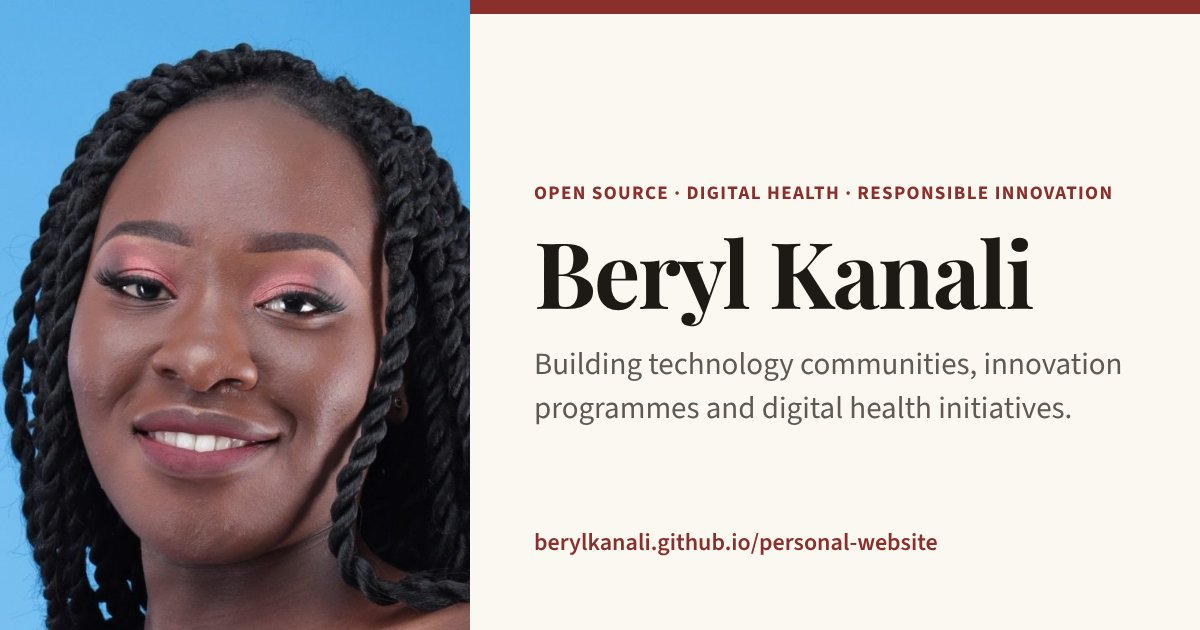
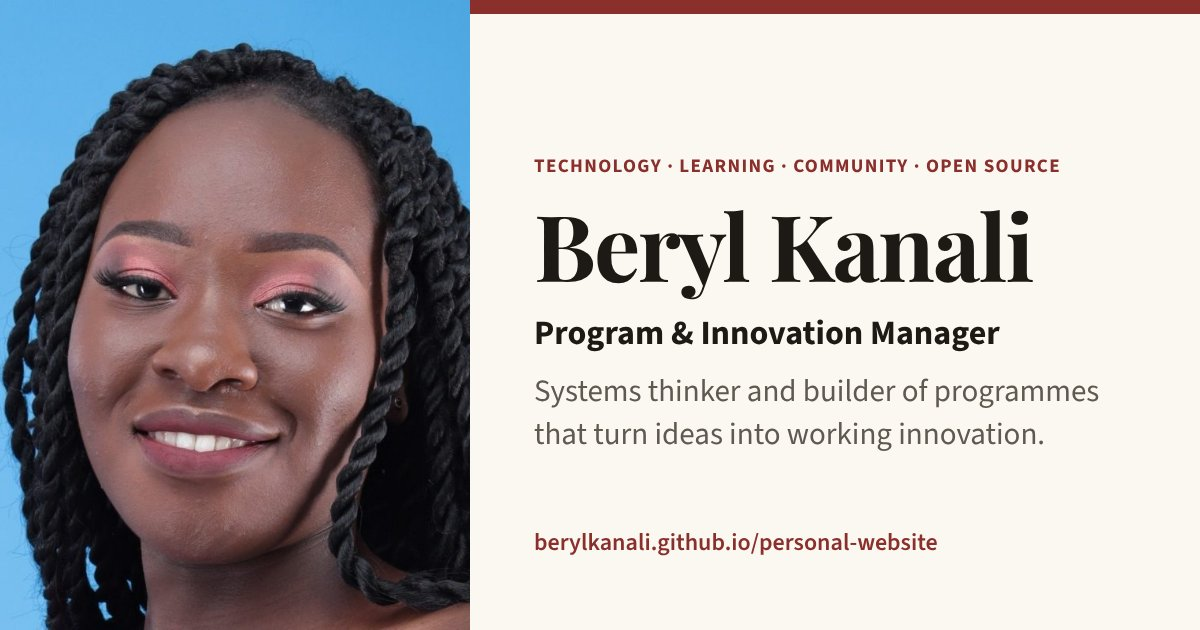
Align site positioning with new LinkedIn headline
Lead with "Program & Innovation Manager · Systems thinker & builder" and
the Technology · Learning · Community · Open Source focus, using the new
personal statement in the homepage hero and About page.

- Replace independent-consultant framing with roles plus advisory and
  project work: new "Role" option on Services, updated Contact copy and
  "Good fits", homepage CTA now speaks to hiring and projects.
- Innovation programme design now listed first on Home and Services.
- Stat updated to "5+ years in open source" to match the statement.
- Page titles, descriptions, preview alt text, footer and link-preview
  card updated to the new title.

Claude-Session: https://claude.ai/code/session_011xEgmuE4S4L5QixbqaLqwP

Changed region(s): [[0.4317, 0.2413, 0.925, 0.7238]]

diff --git a/services.html b/services.html
@@ -4,19 +4,19 @@
   <meta charset="UTF-8">
   <meta name="viewport" content="width=device-width, initial-scale=1.0">
   <title>Services – Beryl Kanali</title>
-  <meta name="description" content="Consulting services from Beryl Kanali: open-source community strategy, innovation programme design, digital health programme delivery, and training and facilitation.">
+  <meta name="description" content="Ways to work with Beryl Kanali: programme and innovation roles, advisory and project work in innovation programme design, open-source community strategy, digital health programme delivery, and training.">
   <meta name="author" content="Beryl Kanali">
 
   <!-- Link previews (LinkedIn, WhatsApp, Slack, email) -->
   <meta property="og:type" content="website">
   <meta property="og:title" content="Services – Beryl Kanali">
-  <meta property="og:description" content="Consulting services from Beryl Kanali: open-source community strategy, innovation programme design, digital health programme delivery, and training and facilitation.">
+  <meta property="og:description" content="Ways to work with Beryl Kanali: programme and innovation roles, advisory and project work in innovation programme design, open-source community strategy, digital health programme delivery, and training.">
   <meta property="og:url" content="https://berylkanali.github.io/personal-website/services.html">
   <meta property="og:site_name" content="Beryl Kanali">
   <meta property="og:image" content="https://berylkanali.github.io/personal-website/images/og-card.jpg">
   <meta property="og:image:width" content="1200">
   <meta property="og:image:height" content="630">
-  <meta property="og:image:alt" content="Beryl Kanali – open source, digital health and responsible innovation">
+  <meta property="og:image:alt" content="Beryl Kanali – Program &amp; Innovation Manager">
   <meta name="twitter:card" content="summary_large_image">
   <link rel="canonical" href="https://berylkanali.github.io/personal-website/services.html">
 
@@ -46,34 +46,17 @@
   <main id="main">
     <section class="hero hero-page">
       <h1>Services</h1>
-      <p class="tagline">Practical support for organisations building technology communities, innovation programmes and digital health initiatives.</p>
+      <p class="tagline">Programme and innovation roles, advisory and project work, for organisations building innovation programmes, technology communities and learning initiatives.</p>
     </section>
     <section class="section">
-      <h2>What I offer</h2>
+      <h2>Where I add value</h2>
       <p>
         I work with organisations that need someone who understands both the
-        technology and the people around it. Every engagement draws on
-        work I do every day, not theory.
+        technology and the people around it, whether in a programme or innovation
+        role on your team or on a defined project. Everything here draws on work
+        I do every day, not theory.
       </p>
       <div class="service-list">
-
-            <article class="service" id="community">
-              <div class="service-head">
-                <h3>Open-source community strategy</h3>
-                <p class="service-who"><strong>For:</strong> open-source projects, foundations and digital public goods</p>
-              </div>
-              <div class="service-body">
-                <p class="service-label">What I can do</p>
-                <ul>
-                  <li>Community health assessments: who participates, where people drop off, what blocks contribution</li>
-                  <li>Contributor onboarding pathways and mentorship programmes (e.g. Google Summer of Code, Outreachy)</li>
-                  <li>Engagement strategies with metrics you can track and report on</li>
-                  <li>Governance and Code of Conduct review</li>
-                  <li>Community communications: newsletters, updates and reporting to leadership</li>
-                </ul>
-                <p class="service-proof"><strong>Track record:</strong> OpenMRS community coordination, Astropy community management, Bioconductor contribution through Outreachy. <a href="work.html">See work</a></p>
-              </div>
-            </article>
 
             <article class="service" id="innovation">
               <div class="service-head">
@@ -90,6 +73,24 @@
                   <li>Pitch preparation, demo days and judging frameworks</li>
                 </ul>
                 <p class="service-proof"><strong>Track record:</strong> KamiLimu ICT &amp; Innovation track, the KamiLimu Responsible Innovation Hub and peer-reviewed research on the model. <a href="research.html">See research</a></p>
+              </div>
+            </article>
+
+            <article class="service" id="community">
+              <div class="service-head">
+                <h3>Open-source community strategy</h3>
+                <p class="service-who"><strong>For:</strong> open-source projects, foundations and digital public goods</p>
+              </div>
+              <div class="service-body">
+                <p class="service-label">What I can do</p>
+                <ul>
+                  <li>Community health assessments: who participates, where people drop off, what blocks contribution</li>
+                  <li>Contributor onboarding pathways and mentorship programmes (e.g. Google Summer of Code, Outreachy)</li>
+                  <li>Engagement strategies with metrics you can track and report on</li>
+                  <li>Governance and Code of Conduct review</li>
+                  <li>Community communications: newsletters, updates and reporting to leadership</li>
+                </ul>
+                <p class="service-proof"><strong>Track record:</strong> OpenMRS community coordination, Astropy community management, Bioconductor contribution through Outreachy. <a href="work.html">See work</a></p>
               </div>
             </article>
 
@@ -152,7 +153,8 @@
 
     <section class="section">
       <h2>Ways to work together</h2>
-      <div class="focus-grid three">
+      <div class="focus-grid">
+        <div class="focus-card"><h3>Role</h3><p>A full-time or long-term programme or innovation management role on your team.</p></div>
         <div class="focus-card"><h3>Project</h3><p>A defined piece of work with a clear scope, timeline and outcome.</p></div>
         <div class="focus-card"><h3>Advisory</h3><p>Ongoing support for your team, on an agreed number of days or hours each month.</p></div>
         <div class="focus-card"><h3>Workshop</h3><p>A single session or short series for your team, cohort or community.</p></div>
@@ -171,7 +173,7 @@
   </main>
 
   <footer>
-    <p>&copy; <span class="year">2026</span> Beryl Kanali &middot; Open source, digital health &amp; responsible innovation</p>
+    <p>&copy; <span class="year">2026</span> Beryl Kanali &middot; Technology &middot; Learning &middot; Community &middot; Open Source</p>
     <p class="footer-links">
       <a href="mailto:kanaliberyl@gmail.com">Email</a>
       <a href="https://linkedin.com/in/berylkanali" target="_blank" rel="noopener noreferrer">LinkedIn</a>

diff --git a/index.html b/index.html
@@ -3,20 +3,20 @@
 <head>
   <meta charset="UTF-8">
   <meta name="viewport" content="width=device-width, initial-scale=1.0">
-  <title>Beryl Kanali – Open Source, Digital Health & Innovation Consultant</title>
-  <meta name="description" content="Beryl Kanali is an independent consultant helping health-tech organisations, open-source projects and innovation programmes build communities, design programmes and deliver technology initiatives.">
+  <title>Beryl Kanali – Program & Innovation Manager</title>
+  <meta name="description" content="Beryl Kanali is a program and innovation manager who builds programmes at the intersection of technology, learning and community: curricula, fellowships, incubation pathways and open-source communities.">
   <meta name="author" content="Beryl Kanali">
 
   <!-- Link previews (LinkedIn, WhatsApp, Slack, email) -->
   <meta property="og:type" content="website">
-  <meta property="og:title" content="Beryl Kanali – Open Source, Digital Health & Innovation Consultant">
-  <meta property="og:description" content="Beryl Kanali is an independent consultant helping health-tech organisations, open-source projects and innovation programmes build communities, design programmes and deliver technology initiatives.">
+  <meta property="og:title" content="Beryl Kanali – Program & Innovation Manager">
+  <meta property="og:description" content="Beryl Kanali is a program and innovation manager who builds programmes at the intersection of technology, learning and community: curricula, fellowships, incubation pathways and open-source communities.">
   <meta property="og:url" content="https://berylkanali.github.io/personal-website/">
   <meta property="og:site_name" content="Beryl Kanali">
   <meta property="og:image" content="https://berylkanali.github.io/personal-website/images/og-card.jpg">
   <meta property="og:image:width" content="1200">
   <meta property="og:image:height" content="630">
-  <meta property="og:image:alt" content="Beryl Kanali – open source, digital health and responsible innovation">
+  <meta property="og:image:alt" content="Beryl Kanali – Program &amp; Innovation Manager">
   <meta name="twitter:card" content="summary_large_image">
   <link rel="canonical" href="https://berylkanali.github.io/personal-website/">
 
@@ -46,15 +46,17 @@
   <main id="main">
     <section class="hero hero-split">
       <div class="hero-text">
-        <p class="hero-intro">Open source &middot; Digital health &middot; Responsible innovation</p>
+        <p class="hero-intro">Technology &middot; Learning &middot; Community &middot; Open Source</p>
         <h1>Beryl Kanali</h1>
+        <p class="hero-role"><span>Program &amp; Innovation Manager</span> &middot; <span>Systems thinker &amp; builder</span></p>
         <p class="tagline">
-          I help organisations build technology communities that last, design
-          innovation programmes that move ideas into real use, and deliver
-          multi-stakeholder technology initiatives.
+          I build and manage programmes at the intersection of technology, learning
+          and community, designing the structures that turn ideas into working
+          innovation: curricula, fellowships, incubation pathways and the
+          processes that keep them running.
         </p>
         <div class="hero-actions">
-          <a href="services.html" class="btn">How I can help</a>
+          <a href="services.html" class="btn">Ways to work together</a>
           <a href="contact.html" class="btn btn-secondary">Start a conversation</a>
         </div>
         <p class="experience-with">
@@ -75,21 +77,21 @@
         <li><strong>500+</strong><span>contributors and partners in the global OpenMRS community I support</span></li>
         <li><strong>40+</strong><span>student innovation teams mentored from problem to pitch</span></li>
         <li><strong>86</strong><span>students took part in the 2026 KamiLimu Buildathon</span></li>
-        <li><strong>5</strong><span>years building open-source communities, since my Outreachy internship with Bioconductor</span></li>
+        <li><strong>5+</strong><span>years in open source, helping people collaborate across borders</span></li>
       </ul>
     </section>
 
     <section class="section">
-      <p class="eyebrow">Services</p>
-      <h2>How I can help</h2>
+      <p class="eyebrow">What I do</p>
+      <h2>Programmes I build and run</h2>
       <div class="focus-grid">
-        <a class="focus-card card-link" href="services.html#community">
-          <h3>Open-source community strategy</h3>
-          <p>Contributor pathways, engagement strategy, governance and community health for open-source and digital public goods projects.</p>
-        </a>
         <a class="focus-card card-link" href="services.html#innovation">
           <h3>Innovation programme design</h3>
           <p>Curricula, cohorts and incubation models that take teams from problem validation to solutions people actually use.</p>
+        </a>
+        <a class="focus-card card-link" href="services.html#community">
+          <h3>Open-source community strategy</h3>
+          <p>Contributor pathways, engagement strategy, governance and community health for open-source and digital public goods projects.</p>
         </a>
         <a class="focus-card card-link" href="services.html#delivery">
           <h3>Digital health programme delivery</h3>
@@ -100,7 +102,7 @@
           <p>Workshops on open-source contribution, responsible computing and science communication.</p>
         </a>
       </div>
-      <a href="services.html" class="project-link">See all services and how I work</a>
+      <a href="services.html" class="project-link">See how we can work together</a>
     </section>
 
     <section class="section">
@@ -142,8 +144,8 @@
     </section>
 
     <section class="section contact-cta">
-      <h2>Have a community, programme or innovation challenge?</h2>
-      <p>Tell me what you are working on and where you are stuck. I will reply with whether and how I can help.</p>
+      <h2>Hiring for a programme role, or building something new?</h2>
+      <p>Whether you have a programme or innovation role to fill or a project that needs a builder, tell me what you are working on. I will reply with whether and how I can help.</p>
       <div class="hero-actions">
         <a href="mailto:kanaliberyl@gmail.com?subject=Enquiry%20from%20your%20website" class="btn">Email me</a>
         <a href="contact.html" class="btn btn-secondary">Contact details</a>
@@ -153,7 +155,7 @@
   </main>
 
   <footer>
-    <p>&copy; <span class="year">2026</span> Beryl Kanali &middot; Open source, digital health &amp; responsible innovation</p>
+    <p>&copy; <span class="year">2026</span> Beryl Kanali &middot; Technology &middot; Learning &middot; Community &middot; Open Source</p>
     <p class="footer-links">
       <a href="mailto:kanaliberyl@gmail.com">Email</a>
       <a href="https://linkedin.com/in/berylkanali" target="_blank" rel="noopener noreferrer">LinkedIn</a>

diff --git a/contact.html b/contact.html
@@ -4,19 +4,19 @@
   <meta charset="UTF-8">
   <meta name="viewport" content="width=device-width, initial-scale=1.0">
   <title>Contact – Beryl Kanali</title>
-  <meta name="description" content="Get in touch with Beryl Kanali about consulting, collaboration, speaking or research in open source, digital health and responsible innovation.">
+  <meta name="description" content="Get in touch with Beryl Kanali about programme and innovation roles, advisory and project work, speaking or research collaborations.">
   <meta name="author" content="Beryl Kanali">
 
   <!-- Link previews (LinkedIn, WhatsApp, Slack, email) -->
   <meta property="og:type" content="website">
   <meta property="og:title" content="Contact – Beryl Kanali">
-  <meta property="og:description" content="Get in touch with Beryl Kanali about consulting, collaboration, speaking or research in open source, digital health and responsible innovation.">
+  <meta property="og:description" content="Get in touch with Beryl Kanali about programme and innovation roles, advisory and project work, speaking or research collaborations.">
   <meta property="og:url" content="https://berylkanali.github.io/personal-website/contact.html">
   <meta property="og:site_name" content="Beryl Kanali">
   <meta property="og:image" content="https://berylkanali.github.io/personal-website/images/og-card.jpg">
   <meta property="og:image:width" content="1200">
   <meta property="og:image:height" content="630">
-  <meta property="og:image:alt" content="Beryl Kanali – open source, digital health and responsible innovation">
+  <meta property="og:image:alt" content="Beryl Kanali – Program &amp; Innovation Manager">
   <meta name="twitter:card" content="summary_large_image">
   <link rel="canonical" href="https://berylkanali.github.io/personal-website/contact.html">
 
@@ -46,14 +46,15 @@
   <main id="main">
     <section class="hero hero-page">
       <h1>Let's work together</h1>
-      <p class="tagline">Consulting, collaboration, speaking and research conversations.</p>
+      <p class="tagline">Roles, collaborations, speaking and research conversations.</p>
     </section>
     <section class="section contact-layout">
       <div>
         <h2>Get in touch</h2>
         <p>
-          I am open to consulting engagements with health-technology organisations,
-          open-source projects, universities, incubators and funders, as well as
+          I am open to programme and innovation management roles, and to advisory
+          and project work with open-source projects, health-technology
+          organisations, universities, incubators and funders. I also welcome
           speaking, facilitation and research collaborations.
         </p>
         <p>Email is the fastest way to reach me.</p>
@@ -81,6 +82,7 @@
     <section class="section">
       <h2>Good fits</h2>
       <ul class="skills-list">
+        <li>Programme &amp; innovation management roles</li>
         <li>Open-source community strategy</li>
         <li>Contributor &amp; mentorship programmes</li>
         <li>Innovation programme design</li>
@@ -93,7 +95,7 @@
   </main>
 
   <footer>
-    <p>&copy; <span class="year">2026</span> Beryl Kanali &middot; Open source, digital health &amp; responsible innovation</p>
+    <p>&copy; <span class="year">2026</span> Beryl Kanali &middot; Technology &middot; Learning &middot; Community &middot; Open Source</p>
     <p class="footer-links">
       <a href="mailto:kanaliberyl@gmail.com">Email</a>
       <a href="https://linkedin.com/in/berylkanali" target="_blank" rel="noopener noreferrer">LinkedIn</a>

diff --git a/about.html b/about.html
@@ -4,19 +4,19 @@
   <meta charset="UTF-8">
   <meta name="viewport" content="width=device-width, initial-scale=1.0">
   <title>About – Beryl Kanali</title>
-  <meta name="description" content="About Beryl Kanali: an independent consultant working across open source, digital health and responsible innovation, with a background in mathematics, statistics and technology management.">
+  <meta name="description" content="About Beryl Kanali: a program and innovation manager and systems thinker working across technology, learning, community and open source, with a background in mathematics, statistics and technology management.">
   <meta name="author" content="Beryl Kanali">
 
   <!-- Link previews (LinkedIn, WhatsApp, Slack, email) -->
   <meta property="og:type" content="website">
   <meta property="og:title" content="About – Beryl Kanali">
-  <meta property="og:description" content="About Beryl Kanali: an independent consultant working across open source, digital health and responsible innovation, with a background in mathematics, statistics and technology management.">
+  <meta property="og:description" content="About Beryl Kanali: a program and innovation manager and systems thinker working across technology, learning, community and open source, with a background in mathematics, statistics and technology management.">
   <meta property="og:url" content="https://berylkanali.github.io/personal-website/about.html">
   <meta property="og:site_name" content="Beryl Kanali">
   <meta property="og:image" content="https://berylkanali.github.io/personal-website/images/og-card.jpg">
   <meta property="og:image:width" content="1200">
   <meta property="og:image:height" content="630">
-  <meta property="og:image:alt" content="Beryl Kanali – open source, digital health and responsible innovation">
+  <meta property="og:image:alt" content="Beryl Kanali – Program &amp; Innovation Manager">
   <meta name="twitter:card" content="summary_large_image">
   <link rel="canonical" href="https://berylkanali.github.io/personal-website/about.html">
 
@@ -46,7 +46,7 @@
   <main id="main">
     <section class="hero hero-page">
       <h1>About</h1>
-      <p class="tagline">Community builder, programme designer and researcher, working where technology meets people.</p>
+      <p class="tagline">Program &amp; innovation manager and systems thinker, building programmes where technology, learning and community meet.</p>
     </section>
     <section class="section about-intro">
       <div>
@@ -64,7 +64,8 @@
           out-of-classroom learning works.
         </p>
         <p>
-          I now offer this experience as an independent consultant. My training
+          I think in systems: I design the structures that turn ideas into working
+          innovation, and the processes that keep them running. My training
           spans mathematics, statistics and engineering and technology management,
           so I can work as easily with technical teams as with the people who fund
           and run programmes.
@@ -104,7 +105,7 @@
   </main>
 
   <footer>
-    <p>&copy; <span class="year">2026</span> Beryl Kanali &middot; Open source, digital health &amp; responsible innovation</p>
+    <p>&copy; <span class="year">2026</span> Beryl Kanali &middot; Technology &middot; Learning &middot; Community &middot; Open Source</p>
     <p class="footer-links">
       <a href="mailto:kanaliberyl@gmail.com">Email</a>
       <a href="https://linkedin.com/in/berylkanali" target="_blank" rel="noopener noreferrer">LinkedIn</a>

diff --git a/research.html b/research.html
@@ -16,7 +16,7 @@
   <meta property="og:image" content="https://berylkanali.github.io/personal-website/images/og-card.jpg">
   <meta property="og:image:width" content="1200">
   <meta property="og:image:height" content="630">
-  <meta property="og:image:alt" content="Beryl Kanali – open source, digital health and responsible innovation">
+  <meta property="og:image:alt" content="Beryl Kanali – Program &amp; Innovation Manager">
   <meta name="twitter:card" content="summary_large_image">
   <link rel="canonical" href="https://berylkanali.github.io/personal-website/research.html">
 
@@ -121,7 +121,7 @@
   </main>
 
   <footer>
-    <p>&copy; <span class="year">2026</span> Beryl Kanali &middot; Open source, digital health &amp; responsible innovation</p>
+    <p>&copy; <span class="year">2026</span> Beryl Kanali &middot; Technology &middot; Learning &middot; Community &middot; Open Source</p>
     <p class="footer-links">
       <a href="mailto:kanaliberyl@gmail.com">Email</a>
       <a href="https://linkedin.com/in/berylkanali" target="_blank" rel="noopener noreferrer">LinkedIn</a>

diff --git a/work.html b/work.html
@@ -16,7 +16,7 @@
   <meta property="og:image" content="https://berylkanali.github.io/personal-website/images/og-card.jpg">
   <meta property="og:image:width" content="1200">
   <meta property="og:image:height" content="630">
-  <meta property="og:image:alt" content="Beryl Kanali – open source, digital health and responsible innovation">
+  <meta property="og:image:alt" content="Beryl Kanali – Program &amp; Innovation Manager">
   <meta name="twitter:card" content="summary_large_image">
   <link rel="canonical" href="https://berylkanali.github.io/personal-website/work.html">
 
@@ -112,7 +112,7 @@
   </main>
 
   <footer>
-    <p>&copy; <span class="year">2026</span> Beryl Kanali &middot; Open source, digital health &amp; responsible innovation</p>
+    <p>&copy; <span class="year">2026</span> Beryl Kanali &middot; Technology &middot; Learning &middot; Community &middot; Open Source</p>
     <p class="footer-links">
       <a href="mailto:kanaliberyl@gmail.com">Email</a>
       <a href="https://linkedin.com/in/berylkanali" target="_blank" rel="noopener noreferrer">LinkedIn</a>

diff --git a/404.html b/404.html
@@ -60,7 +60,7 @@
   </main>
 
   <footer>
-    <p>&copy; <span class="year">2026</span> Beryl Kanali &middot; Open source, digital health &amp; responsible innovation</p>
+    <p>&copy; <span class="year">2026</span> Beryl Kanali &middot; Technology &middot; Learning &middot; Community &middot; Open Source</p>
     <p class="footer-links">
       <a href="mailto:kanaliberyl@gmail.com">Email</a>
       <a href="https://linkedin.com/in/berylkanali" target="_blank" rel="noopener noreferrer">LinkedIn</a>

diff --git a/style.css b/style.css
@@ -202,6 +202,18 @@ body > header {
   letter-spacing: -0.02em;
 }
 
+.hero-role {
+  margin: 0 0 1rem;
+  color: var(--ink);
+  font-size: clamp(1.15rem, 2.2vw, 1.4rem);
+  font-weight: 600;
+  line-height: 1.4;
+}
+
+.hero-role span {
+  white-space: nowrap;
+}
+
 .hero .tagline {
   margin: 0 0 1rem;
   max-width: 58ch;
